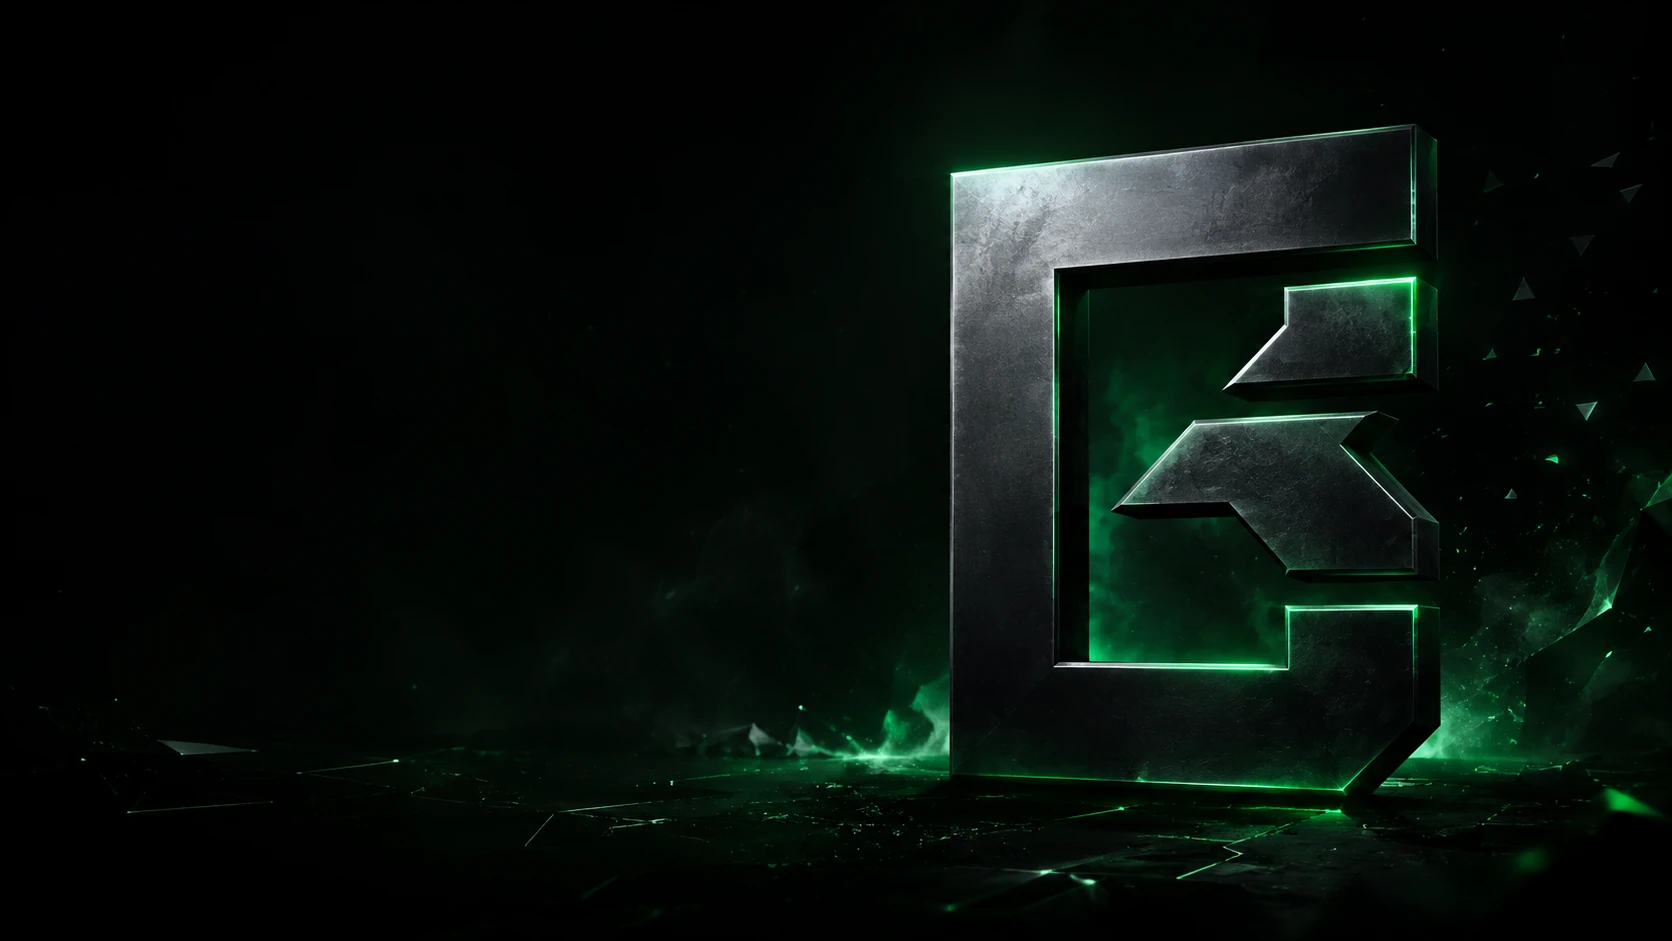
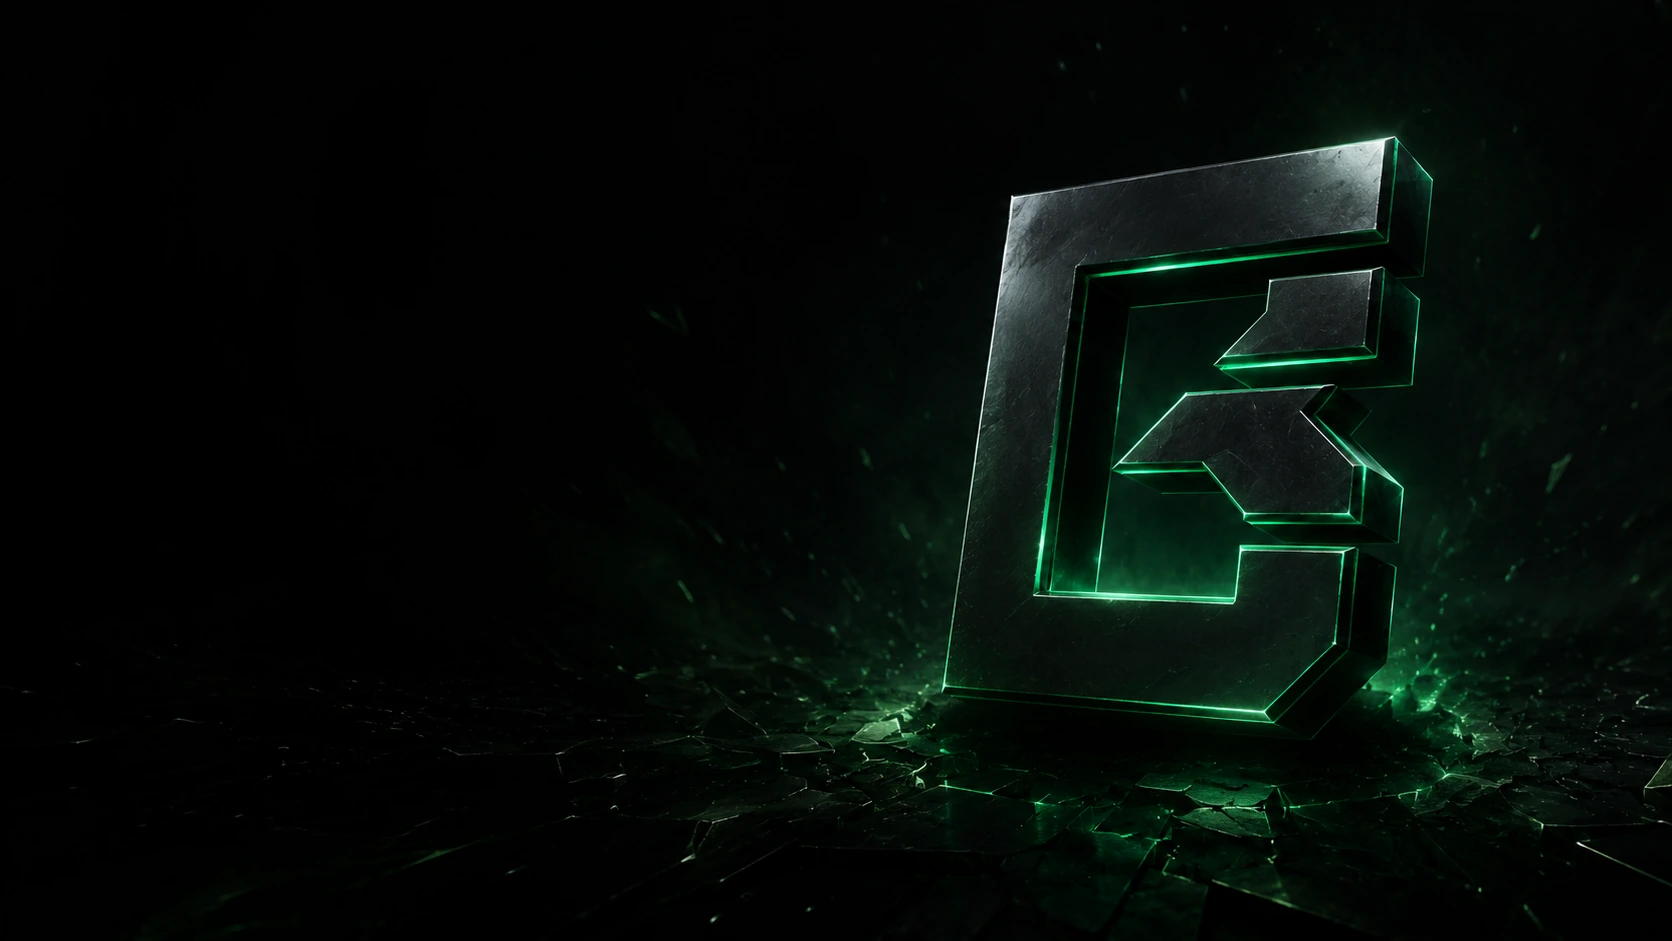
Phase 13Q - Cinematic Integrated Hero

diff --git a/src/app/page.tsx b/src/app/page.tsx
@@ -85,6 +85,21 @@ export default function Home() {
       <section className="relative isolate overflow-hidden border-b border-[#FFFFFF14] bg-[#050807]">
         <div className="hero-grid absolute inset-0 -z-20 opacity-30" />
         <div className="absolute right-[6%] top-[-12rem] -z-10 h-[31rem] w-[42rem] rounded-full bg-[#39E56F]/[0.07] blur-[115px]" />
+
+        <div
+          aria-hidden="true"
+          className="pointer-events-none absolute inset-y-0 right-[-10vw] -z-10 w-[74vw] sm:right-[-9vw] sm:w-[68vw] lg:right-[-8vw] lg:w-[62vw] xl:right-[-7vw] xl:w-[59vw]"
+        >
+          <Image
+            src="/brand/boostingpedia-hero-art.webp"
+            alt=""
+            fill
+            priority
+            sizes="(min-width:1280px) 59vw, (min-width:1024px) 62vw, (min-width:640px) 68vw, 74vw"
+            className="object-cover object-[68%_52%] sm:object-[69%_52%] lg:object-[67%_52%] [mask-image:linear-gradient(90deg,transparent_0%,rgba(0,0,0,.16)_11%,rgba(0,0,0,.46)_25%,rgba(0,0,0,.76)_39%,black_53%,black_100%)] [-webkit-mask-image:linear-gradient(90deg,transparent_0%,rgba(0,0,0,.16)_11%,rgba(0,0,0,.46)_25%,rgba(0,0,0,.76)_39%,black_53%,black_100%)]"
+          />
+        </div>
+        <div className="pointer-events-none absolute inset-y-0 left-0 -z-[5] w-[72%] bg-gradient-to-r from-[#050807] via-[#050807]/94 to-transparent sm:w-[65%] lg:w-[55%]" />
         <Container className="grid min-h-[470px] items-center gap-10 py-14 lg:grid-cols-[1.04fr_.96fr] lg:py-16">
           <div className="max-w-3xl">
             <Badge className="mb-5 border-[#39E56F]/20 bg-[#39E56F]/[0.06] text-[#82F5A4]">
@@ -124,18 +139,7 @@ export default function Home() {
             </div>
           </div>
 
-          <div className="relative hidden min-h-[340px] lg:block">
-            <div className="absolute -inset-y-8 -left-10 right-[-8vw] overflow-hidden">
-              <Image
-                src="/brand/boostingpedia-hero-art.webp"
-                alt=""
-                fill
-                priority
-                sizes="50vw"
-                className="object-cover object-[68%_52%] [mask-image:linear-gradient(90deg,transparent_0%,rgba(0,0,0,.16)_10%,rgba(0,0,0,.48)_24%,rgba(0,0,0,.82)_38%,black_52%,black_100%)] [-webkit-mask-image:linear-gradient(90deg,transparent_0%,rgba(0,0,0,.16)_10%,rgba(0,0,0,.48)_24%,rgba(0,0,0,.82)_38%,black_52%,black_100%)]"
-              />
-            </div>
-          </div>
+          <div className="relative hidden min-h-[340px] lg:block" aria-hidden="true" />
         </Container>
       </section>
 

diff --git a/docs/phase-13q-cinematic-integrated-hero.md b/docs/phase-13q-cinematic-integrated-hero.md
@@ -1,0 +1,24 @@
+# Phase 13Q — Cinematic Integrated Hero
+
+Implements the newly approved BoostingPedia hero artwork as an environmental hero layer.
+
+## Changes
+- Replaces the hero artwork asset with the new approved image.
+- Removes the old contained right-column artwork treatment.
+- Renders the artwork as a large absolute layer directly in the hero section.
+- Extends the artwork beyond the right side so its physical edge is never visible.
+- Uses one long horizontal mask for a clean transition into `#050807`.
+- Keeps the emblem sharp and visually dominant.
+- Preserves the existing left-side content and layout.
+- Uses responsive sizing/positioning so the emblem remains visible on tablet/mobile.
+
+## Unchanged
+- hero copy
+- label
+- CTA buttons
+- trust bullets
+- hero section structure
+- header/navigation
+- all other Home sections
+- game cards
+- Rocket League logic/functionality
